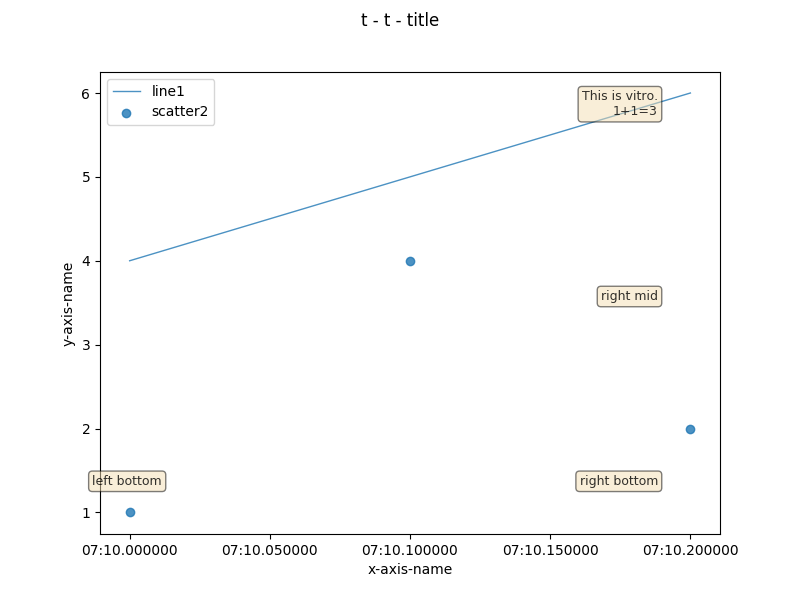
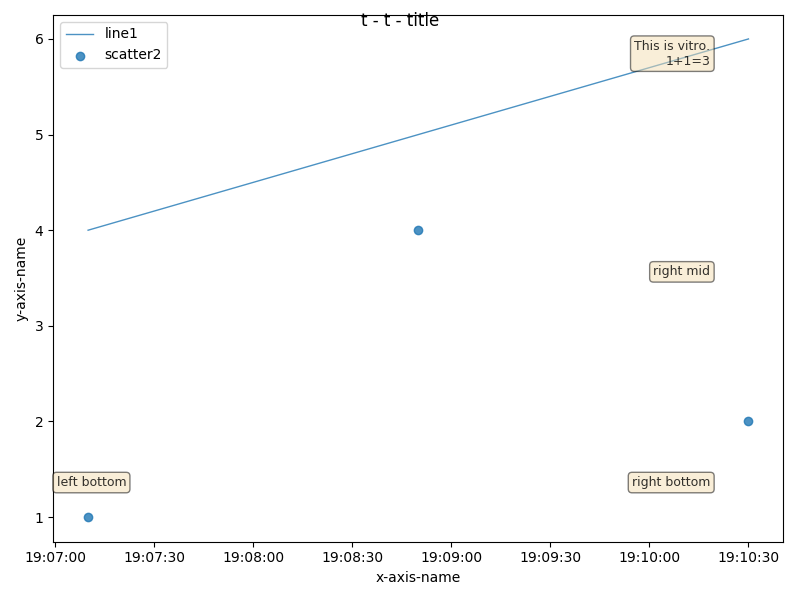
SAVEPOINT

diff --git a/vitro.cc b/vitro.cc
@@ -234,8 +234,8 @@ Matplot::Matplot(const Figure& fig) {
 
         auto plot = PyObject_GetAttrString(pyax, "scatter");
         auto args = Py_BuildValue("(OO)", x, y);
-        auto kwargs = Py_BuildValue("{s:s, s:d, s:s, s:O}", "label", scatter.name.c_str(), "alpha", scatter.alpha,
-                                    "marker", scatter.marker_type.c_str(), "color",
+        auto kwargs = Py_BuildValue("{s:s, s:d, s:s, s:d, s:O}", "label", scatter.name.c_str(), "alpha", scatter.alpha,
+                                    "marker", scatter.marker_type.c_str(), "linewidths", scatter.width, "color",
                                     scatter.color ? PyUnicode_FromString(scatter.color->c_str()) : Py_None);
         auto pyscatter = PyObject_Call(plot, args, kwargs);
         if (pyscatter == nullptr) {
@@ -312,6 +312,8 @@ Matplot::Matplot(const Figure& fig) {
   for (auto pyax : pyaxes) {
     Py_DecRef(pyax);
   }
+
+  PyObject_CallMethod(pyfig, "tight_layout", nullptr);
 }
 
 void Matplot::save(const std::experimental::filesystem::path& path) {

diff --git a/vitro.h b/vitro.h
@@ -47,6 +47,7 @@ public:
   std::string marker_type = "o"; // temporarily we use matplotlib style
   double marker_size = 10;
   std::optional<std::string> color;
+  double width = 1.0;
   double alpha = 0.8;
   std::vector<int64_t> xs; // TODO : generic
   std::vector<double> ys;
